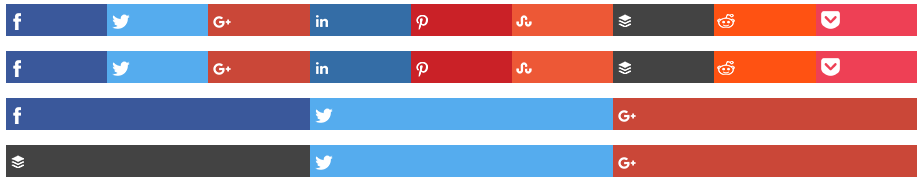
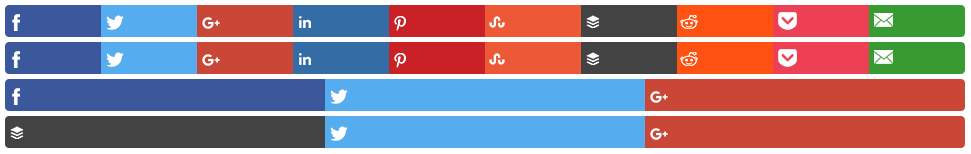
Change Log

diff --git a/zee-social-buttons.js b/zee-social-buttons.js
@@ -1,6 +1,6 @@
 /*
  * Zee Social Buttons
- * Version: 2.1
+ * Version: 2.5
  * Develop By ClubCoding
  * Download/Clone: https://github.com/krishnaTORQUE/Zee-Social-Buttons
  */
@@ -31,7 +31,8 @@ window.addEventListener('load', function () {
         stumbleupon: '<div class="zee_social_sbutton zee_sbtn_stumbleupon" title="Stumbleupon"></div>',
         buffer: '<div class="zee_social_sbutton zee_sbtn_buffer" title="Buffer"></div>',
         reddit: '<div class="zee_social_sbutton zee_sbtn_reddit" title="Reddit"></div>',
-        pocket: '<div class="zee_social_sbutton zee_sbtn_pocket" title="Pocket"></div>'
+        pocket: '<div class="zee_social_sbutton zee_sbtn_pocket" title="Pocket"></div>',
+        email: '<div class="zee_social_sbutton zee_sbtn_email" title="Email"></div>',
     };
 
     var zee_social_buttons = document.getElementsByClassName('zee-social-buttons');
@@ -151,6 +152,10 @@ window.addEventListener('load', function () {
 
                     case 'Pocket':
                         social_buttons_link = 'https://getpocket.com/save?url=' + zee_social_buttons_share_details['url_en'] + '&title=' + zee_social_buttons_share_details['title'];
+                        break;
+
+                    case 'Email':
+                        social_buttons_link = 'mailto:?subject=' + zee_social_buttons_share_details['title_en'] + '&body=Check this out: ' + zee_social_buttons_share_details['url_en'];
                         break;
                 }
 

diff --git a/zee-social-buttons.css b/zee-social-buttons.css
@@ -1,6 +1,6 @@
 /*
  * Zee Social Buttons
- * Version: 2.1
+ * Version: 2.5
  * Develop By ClubCoding
  * Download/Clone: https://github.com/krishnaTORQUE/Zee-Social-Buttons
  */
@@ -22,6 +22,14 @@
     background-repeat: no-repeat;
     cursor: pointer;
     transition: opacity 0.3s;
+}
+
+.zee-social-buttons .zee_social_sbutton:first-child{
+    border-radius: 4px 0 0 4px;
+}
+
+.zee-social-buttons .zee_social_sbutton:last-child{
+    border-radius: 0 4px 4px 0;
 }
 
 .zee-social-buttons .zee_social_sbutton:hover{
@@ -74,4 +82,9 @@
 .zee-social-buttons .zee_sbtn_pocket{
     background-color: #ee4055;
     background-position: 2px -249px;
+}
+
+.zee-social-buttons .zee_sbtn_email{
+    background-color: #389B31;
+    background-position: 2px -274px;
 }

diff --git a/README.md b/README.md
@@ -3,10 +3,10 @@
 ### Description
 Social Share Buttons
 
-LightWeight, Cross Browser & Cross Platform
+LightWeight, Responsive, Cross Browser & Cross Platform
 
 ### Version 
-Stable Version 2.1
+Stable Version 2.5
 
 ### License
 (C) 2015 - 2016
@@ -34,7 +34,7 @@ under GNU General Public License Version 2.
 <!-- Forth -->
 <div class="zee-social-buttons" data-social-buttons="buffer,twitter,googleplus"></div>
 
-<!-- data-social-buttons = facebook,twitter,googleplus,linkedin,pinterest,stumbleupon,buffer,reddit,pocket 
+<!-- data-social-buttons = facebook,twitter,googleplus,linkedin,pinterest,stumbleupon,buffer,reddit,pocket,email
 * Default > All
 * Everytime require
 * Short it > buffer,twitter,googleplus

diff --git a/CHANGELOG.md b/CHANGELOG.md
@@ -1,5 +1,10 @@
 # Change Log & History
 
+#### 22-11-2016
+    Stable Version 2.5
+    Stability Improved
+    Email Button Added
+
 #### 15-11-2016
     Stable Version 2.1
     Changed `ul li` tag to `div` tag // All Single Buttons
